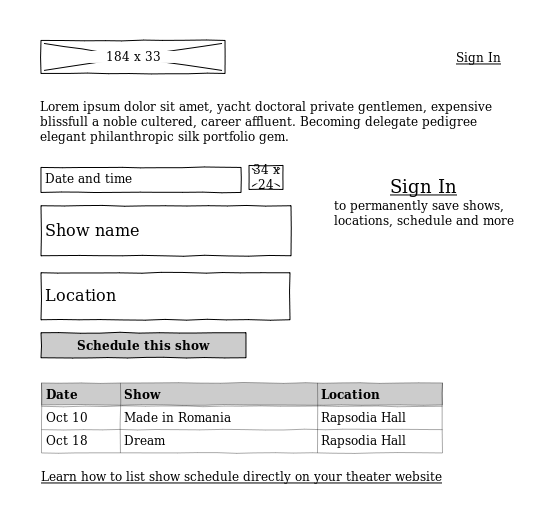
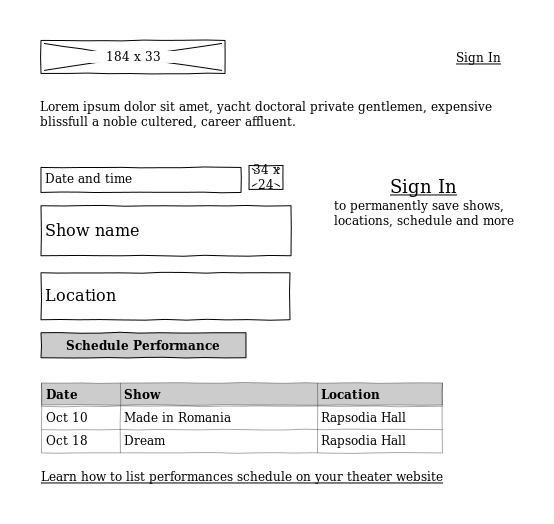
mocks: CUD

diff --git a/wiki/assets/buildTOC.php b/wiki/assets/buildTOC.php
@@ -12,6 +12,7 @@ $docs = array(
 	"StoringData",
 	"ListingSchedule",
 	"Authentication",
+	"ManagingPerformances",
 	"QualityAssurance",
 	"LandingEnhancements",
 	"AdditionalResources",
